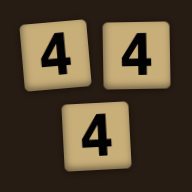
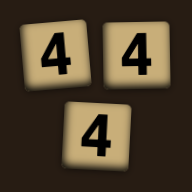
Give the tile back the bevel it used to have
reduce's tile drew its inset bevel in currentColor at a fortieth of the
tile. Restyling 444dle after it wrote that shadow out longhand as
rgb(0 0 0 / 0.45) at a forty-eighth, and giving reduce 444dle's tile
carried the weaker one back. Neither commit meant to flatten anything, but
the face has been half as deep ever since, which is why the icons looked
shallower than the screenshot they replaced.

The keyboard takes the same bevel through `shading`, so its keys darken
too; the dark-scheme key is the one place this reads heavier rather than
deeper.

444dle's bottom tile leans right, away from the two above it.

Changed region(s): [[0.3125, 0.5, 0.6875, 0.9062], [0.0938, 0.0938, 0.5, 0.5], [0.5312, 0.0938, 0.9062, 0.4688]]

diff --git a/src/routes/game/tile.module.css b/src/routes/game/tile.module.css
@@ -1,8 +1,8 @@
 .shading {
-  --tile-shade: calc(var(--tile-size) / 48);
+  --tile-shade: calc(var(--tile-size) / 40);
   --tile-radius: calc(var(--tile-size) / 12);
   --tile-bevel: var(--tile-shade) calc(var(--tile-shade) * -2)
-    calc(var(--tile-shade) * 5) inset rgb(0 0 0 / 0.45);
+    calc(var(--tile-shade) * 5) inset black;
   --tile-wood: rgb(200, 174, 121);
   --tile-face: var(--tile-wood);
 }

diff --git a/scripts/icons/main.ts b/scripts/icons/main.ts
@@ -26,7 +26,7 @@ const ART: Record<string, Art> = {
         { char: "4", lie: -5 },
         { char: "4", lie: -1 },
       ],
-      [{ char: "4", lie: -3 }],
+      [{ char: "4", lie: 3 }],
     ],
   },
 };
